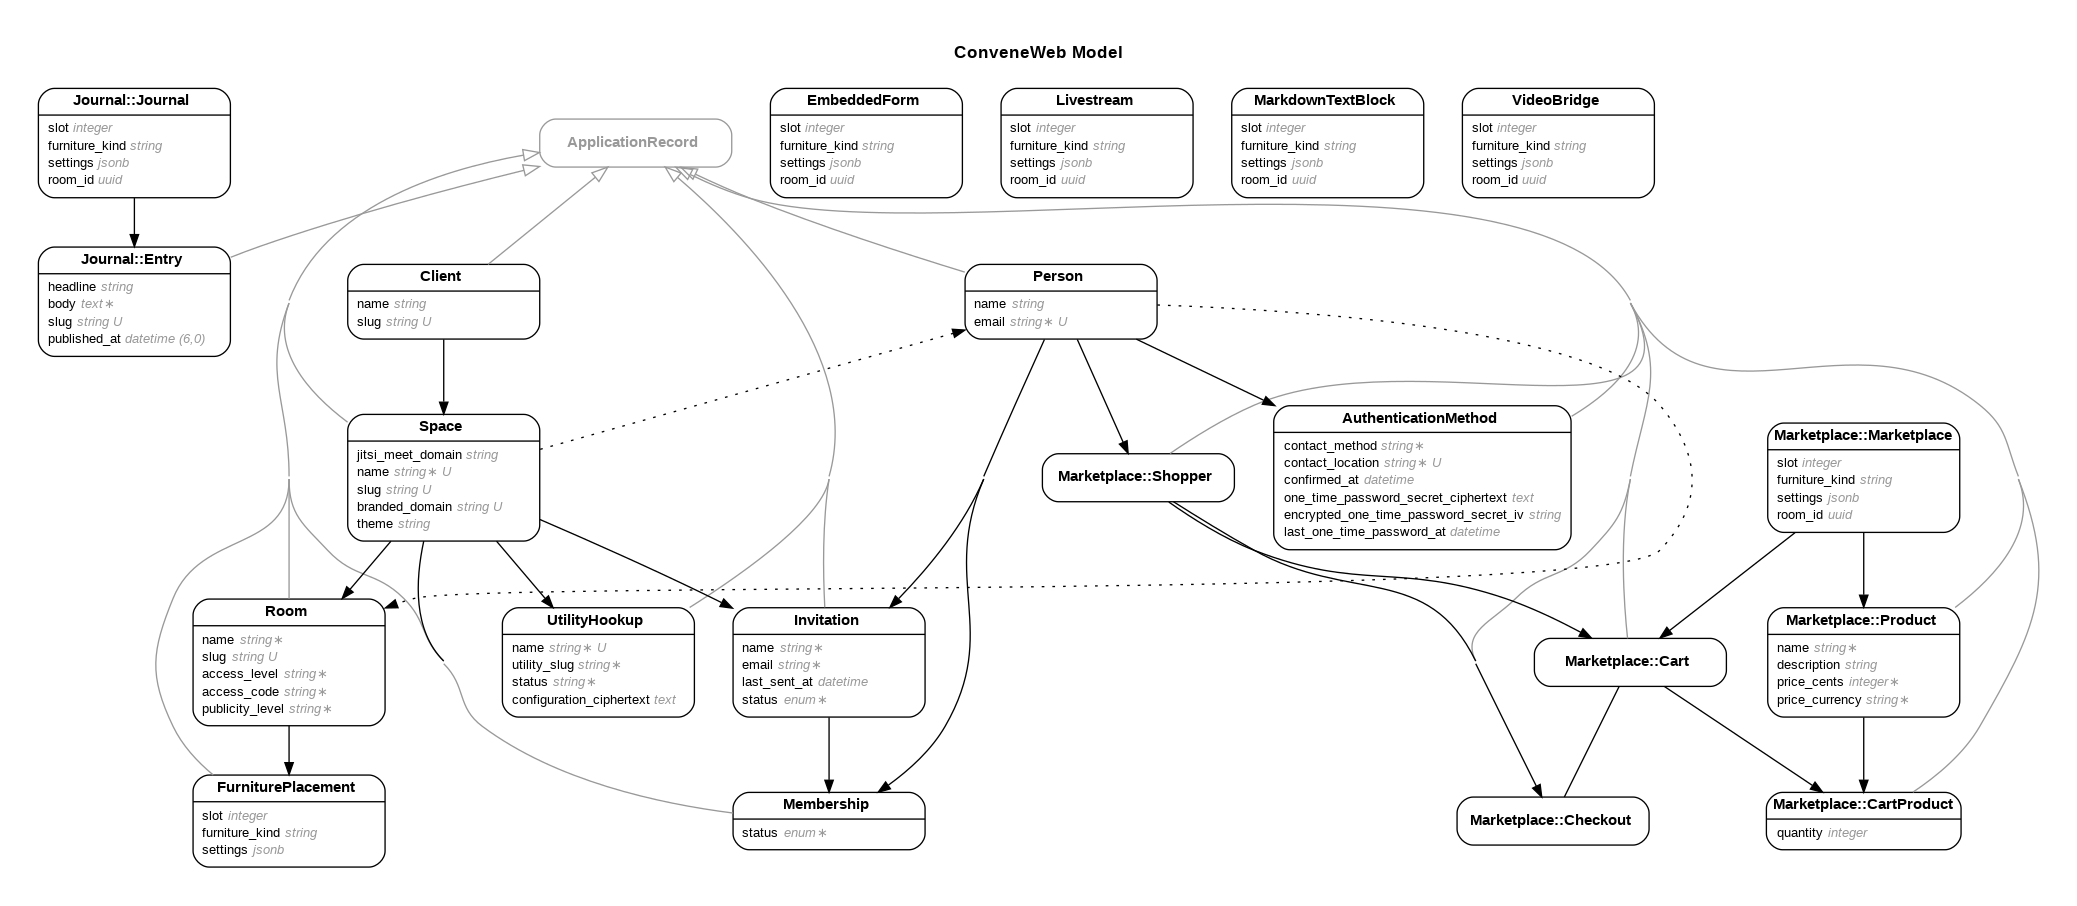
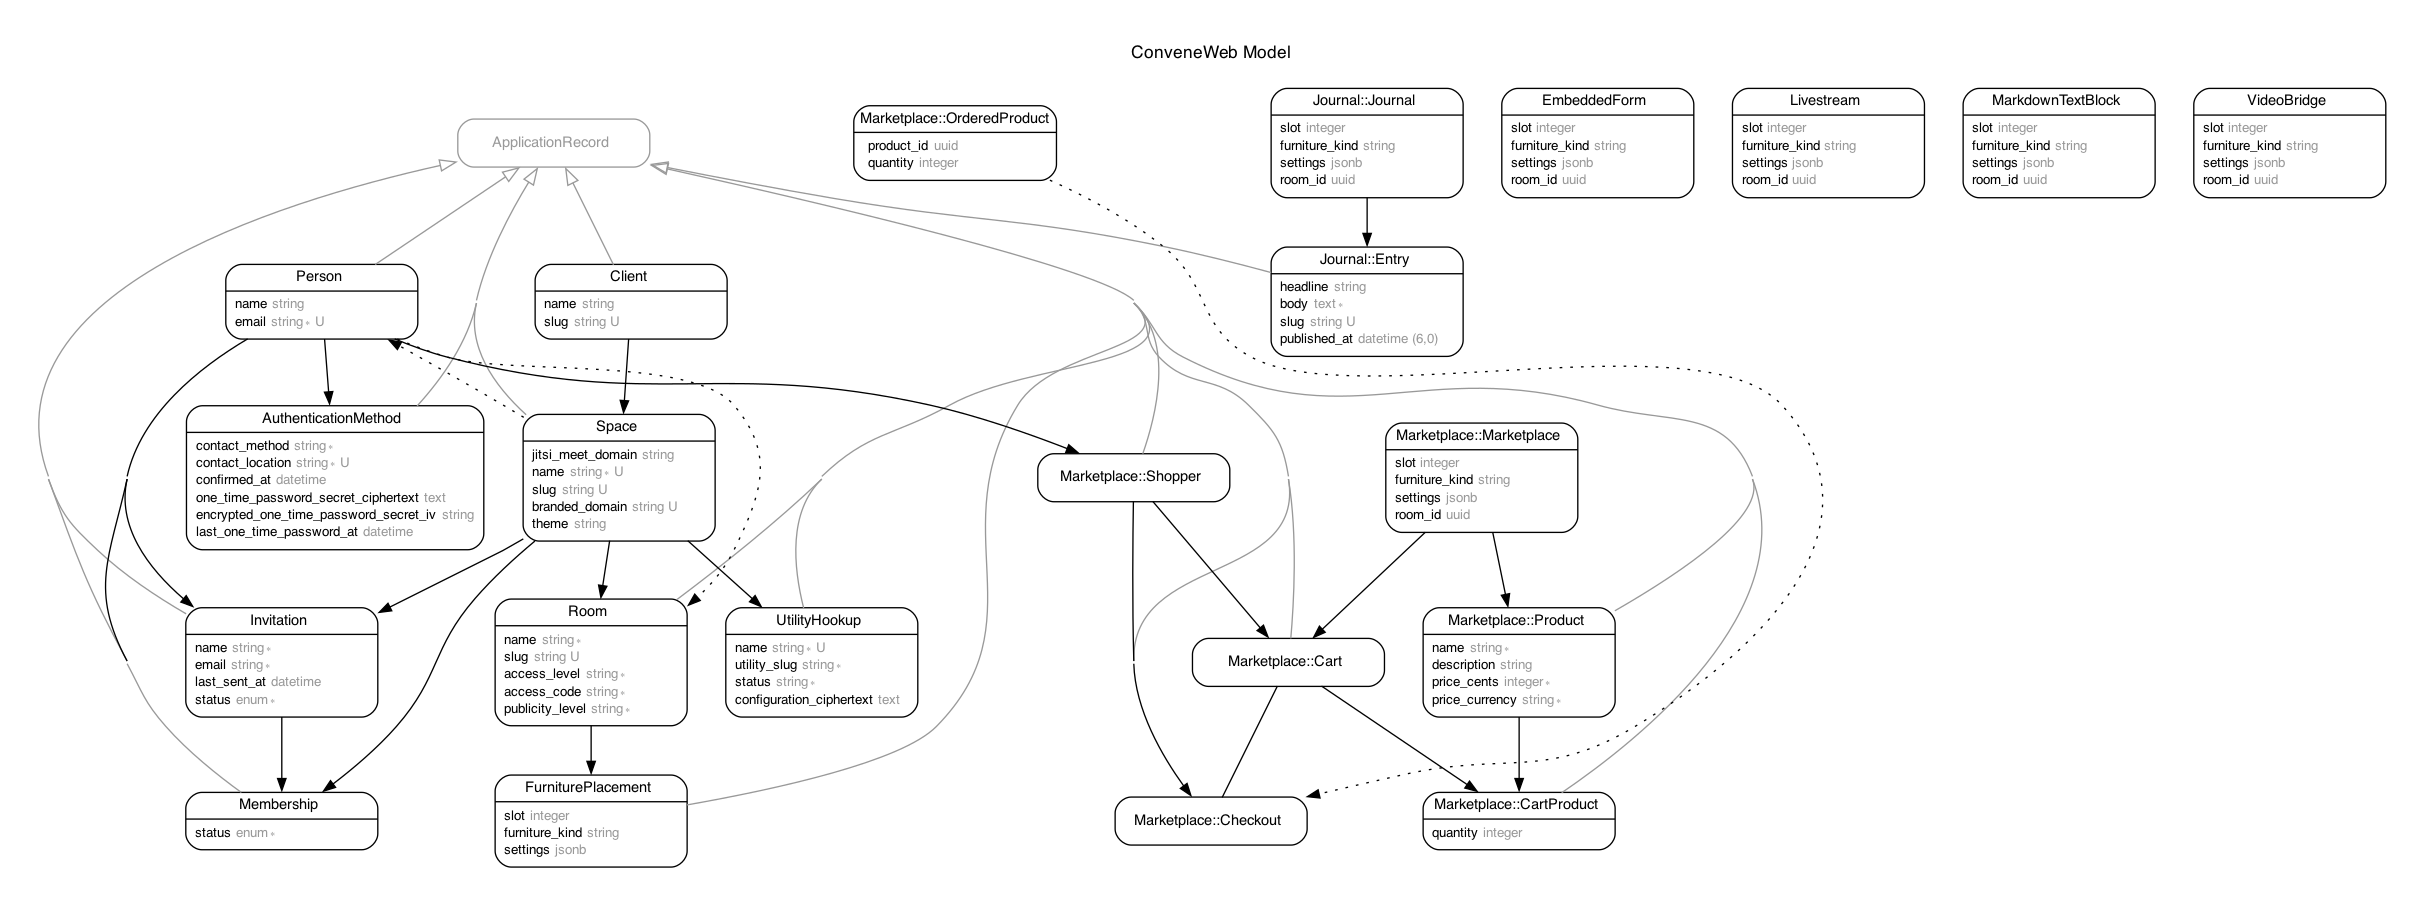
Marketplace: Vendor Accepts Payments (#1031)
* Marketplace: Start sketching out docs for how we Checkout

* Stripe: Install Stripe Gem

* Marketplace: Buyer checks-out with Stripe Checkout!

FUCK YEAAHHHHHHH

* Marketplace: Tidy up generation of Stripe session

* Marketplace; Turbo does not like the URL used for Stripe Checkout

For whatever reason, it is truncating the urls; and rather than fucking
around trying to figure out how to make turbo play nicely, just disable;
since we know we will need to redraw the entire DOM anyway, since we are
redirecting to a Stripe Checkout page.

* Marketplace: Buyer sees Checkout after Checkout

It does make me feel like we are using Checkout for too many things, and
maybe we want an Order class which is distinct from a Checkout but we
didn't want to jump through those hoops in this particual session.

* Freeze the Cart and Checkout after a successful payment, and clear out the
current cart.

* Update CheckoutPolicy to match spec expectations (#1044)

This PR updates the CheckoutPolicy implementation to satisfy the expectations in the spec. I do not know if this is precisely the behavior we want -- e.g. maybe we want a "marketplace admin" (space owner?) to be able to always see a Checkout -- but we can expand the behavior later.

* Handle the "failed to initiate checkout" case and add request specs.

* Add guards for the cases when we don't have a cart.

* Marketplace: `current_cart` is a lie, it's the shopper!

* Marketplace: Checking out works again!
[…]

diff --git a/spec/furniture/marketplace/checkouts_controller_request_spec.rb b/spec/furniture/marketplace/checkouts_controller_request_spec.rb
@@ -1,13 +1,53 @@
 require "rails_helper"
 
 RSpec.describe Marketplace::Checkout, type: :request do
-  let(:marketplace) { create(:marketplace) }
+  let(:marketplace) { create(:marketplace, stripe_api_key: "fake-stripe-key") }
   let(:space) { marketplace.space }
   let(:room) { marketplace.room }
 
+  describe "#show" do
+    let!(:cart) { create(:marketplace_cart, :with_products, marketplace: marketplace) }
+    let(:checkout) { create(:marketplace_checkout, cart: cart, shopper: cart.shopper)}
+    context "when a stripe_session_id is in the params" do
+      it "marks the cart as checked out" do
+        get polymorphic_path([space, room, marketplace, checkout], { stripe_session_id: "12345" })
+        expect(cart.reload).to be_checked_out
+        expect(checkout.reload).to be_paid
+      end
+    end
+  end
+
   describe "#create" do
-    it "Create Checkout from a Cart" do
-      # TODO: insert test
+    subject {
+      post polymorphic_path([space, room, marketplace, :checkouts])
+      response
+    }
+
+    let(:stripe_checkout_session) do
+      double(Stripe::Checkout::Session, url: "http://stripe.redirect")
+    end
+
+    before do
+      allow(Stripe::Checkout::Session).to receive(:create).and_return(stripe_checkout_session)
+      allow_any_instance_of(ApplicationController).to receive(:session).and_return({ guest_shopper_id: cart.shopper.id })
+    end
+
+    context "when a Guest checks out their Cart" do
+      let!(:cart) { create(:marketplace_cart, :with_products, marketplace: marketplace) }
+
+      it "creates a Checkout from a Cart" do
+        expect { subject }.to change(Marketplace::Checkout, :count).by(1)
+        expect(subject).to redirect_to(stripe_checkout_session.url)
+      end
+    end
+
+    context "when the Cart is empty" do
+      let!(:cart) { create(:marketplace_cart, marketplace: marketplace) }
+
+      it "doesn't create a Checkout and shows an error notice" do
+        expect { subject }.not_to change(Marketplace::Checkout, :count)
+        expect(flash["alert"]).to include("line items can't be blank")
+      end
     end
   end
 end

diff --git a/app/furniture/marketplace/checkouts_controller.rb b/app/furniture/marketplace/checkouts_controller.rb
@@ -1,23 +1,51 @@
 class Marketplace
   class CheckoutsController < FurnitureController
-    def new
+
+    def show
       authorize(checkout)
+      if params[:stripe_session_id].present?
+        checkout.update!(status: :paid, stripe_session_id: params[:stripe_session_id])
+        checkout.cart.update!(status: :checked_out)
+        flash[:notice] = t('.success')
+      end
+    end
+
+    def create
+      authorize(checkout)
+
+      if checkout.save
+        stripe_session = checkout.create_stripe_session(
+          success_url: "#{polymorphic_url(checkout.location)}?stripe_session_id={CHECKOUT_SESSION_ID}",
+          cancel_url: polymorphic_url(marketplace.location)
+        )
+        redirect_to stripe_session.url, status: :see_other, allow_other_host: true
+      else
+        redirect_to(
+          [marketplace.room.space, marketplace.room],
+          # TODO: make this a nicer, I18ed message
+          alert: flash[:alert] = checkout.errors.full_messages.join(" ")
+        )
+      end
     end
 
     helper_method def checkout
-      @checkout ||= cart.build_checkout(shopper: shopper)
+      @checkout ||= if params[:id]
+        Checkout.find(params[:id])
+      else
+        cart.checkout || cart.build_checkout(shopper: shopper)
+      end
     end
 
     helper_method def shopper
       @shopper ||= if current_person.is_a?(Guest)
-        Shopper.find_or_create_by(id: session[:current_cart] ||= SecureRandom.uuid)
+        Shopper.find_or_create_by(id: session[:guest_shopper_id] ||= SecureRandom.uuid)
       else
         Shopper.find_or_create_by(person: current_person)
       end
     end
 
     helper_method def cart
-      @cart ||= marketplace.carts.find_or_create_by(shopper: shopper)
+      @cart ||= marketplace.carts.find_or_create_by(shopper: shopper, status: :pre_checkout)
     end
 
     helper_method def marketplace

diff --git a/app/furniture/marketplace/checkout.rb b/app/furniture/marketplace/checkout.rb
@@ -5,11 +5,54 @@ class Marketplace
     self.location_parent = :marketplace
 
     belongs_to :cart, inverse_of: :checkout
+
+    has_many :ordered_products, through: :cart, source: :cart_products, class_name: "Marketplace::OrderedProduct"
     delegate :marketplace, to: :cart
     belongs_to :shopper, inverse_of: :checkouts
 
+
+    # It would be nice to validate instead the presence of :ordered_products, but my attempts at this raise:
+    #  ActiveRecord::HasManyThroughCantAssociateThroughHasOneOrManyReflection:
+    #   Cannot modify association 'Marketplace::Checkout#ordered_products' because the source reflection class 'CartProduct' is associated to 'Cart' via :has_many.
+    validates :stripe_line_items, presence: true
+
+    enum status: {
+      pre_checkout: "pre_checkout",
+      paid: "paid",
+    }
+
     def self.model_name
       @_model_name ||= ActiveModel::Name.new(self, ::Marketplace)
+    end
+
+
+    def create_stripe_session(success_url: , cancel_url: )
+      Stripe::Checkout::Session.create({
+        line_items: stripe_line_items,
+        mode: "payment",
+        success_url: success_url,
+        cancel_url: cancel_url
+      }, {
+        api_key: marketplace.stripe_api_key
+      })
+    end
+
+    private
+
+    def stripe_line_items
+      return [] unless cart.present?
+
+      cart.cart_products.map do |cart_product|
+        {
+          price_data: {
+            currency: "USD",
+            unit_amount: cart_product.product.price_cents,
+            product_data: {name: cart_product.product.name}
+          },
+          quantity: cart_product.quantity,
+          adjustable_quantity: { enabled: true }
+        }
+      end
     end
   end
 end

diff --git a/db/schema.rb b/db/schema.rb
@@ -10,7 +10,7 @@
 #
 # It's strongly recommended that you check this file into your version control system.
 
-ActiveRecord::Schema[7.0].define(version: 2022_12_27_185339) do
+ActiveRecord::Schema[7.0].define(version: 2023_01_12_024425) do
   # These are extensions that must be enabled in order to support this database
   enable_extension "pgcrypto"
   enable_extension "plpgsql"
@@ -139,6 +139,7 @@ ActiveRecord::Schema[7.0].define(version: 2022_12_27_185339) do
     t.datetime "created_at", null: false
     t.datetime "updated_at", null: false
     t.uuid "shopper_id"
+    t.string "status", default: "pre_checkout", null: false
     t.index ["marketplace_id"], name: "index_marketplace_carts_on_marketplace_id"
     t.index ["shopper_id"], name: "index_marketplace_carts_on_shopper_id"
   end
@@ -148,6 +149,8 @@ ActiveRecord::Schema[7.0].define(version: 2022_12_27_185339) do
     t.uuid "shopper_id"
     t.datetime "created_at", null: false
     t.datetime "updated_at", null: false
+    t.string "status", default: "pre_checkout", null: false
+    t.string "stripe_session_id"
     t.index ["cart_id"], name: "index_marketplace_checkouts_on_cart_id"
     t.index ["shopper_id"], name: "index_marketplace_checkouts_on_shopper_id"
   end

diff --git a/spec/furniture/marketplace/checkout_policy_spec.rb b/spec/furniture/marketplace/checkout_policy_spec.rb
@@ -23,4 +23,14 @@ RSpec.describe Marketplace::CheckoutPolicy, type: :policy do
     it { is_expected.to permit(guest, guest_checkout) }
     it { is_expected.not_to permit(member, guest_checkout) }
   end
+
+  permissions :show? do
+    it { is_expected.to permit(member, member_checkout) }
+    it { is_expected.not_to permit(non_member, member_checkout) }
+    it { is_expected.not_to permit(guest, member_checkout) }
+    it { is_expected.to permit(non_member, non_member_checkout) }
+    it { is_expected.not_to permit(member, non_member_checkout) }
+    it { is_expected.to permit(guest, guest_checkout) }
+    it { is_expected.not_to permit(member, guest_checkout) }
+  end
 end

diff --git a/app/furniture/marketplace/cart_product.rb b/app/furniture/marketplace/cart_product.rb
@@ -5,13 +5,25 @@ class Marketplace
     self.table_name = "marketplace_cart_products"
 
     belongs_to :cart, inverse_of: :cart_products
+
     belongs_to :product, inverse_of: :cart_products
+    delegate :name, :description, :price, :price_cents, to: :product
+
     validates_uniqueness_of :product, scope: :cart_id
+    validate :editable_cart
 
     attribute :quantity, :integer, default: 0
 
     def self.model_name
       @_model_name ||= ActiveModel::Name.new(self, ::Marketplace)
+    end
+
+    private
+
+    def editable_cart
+      return unless cart&.checked_out?
+
+      errors.add(:base, "Can't edit a checked-out cart!")
     end
   end
 end

diff --git a/spec/furniture/marketplace/cart_product_spec.rb b/spec/furniture/marketplace/cart_product_spec.rb
@@ -7,4 +7,14 @@ RSpec.describe Marketplace::CartProduct, type: :model do
 
   it { is_expected.to belong_to(:product).inverse_of(:cart_products) }
   it { is_expected.to validate_uniqueness_of(:product).scoped_to(:cart_id) }
+
+  describe "#quantity" do
+    let(:cart) { create(:marketplace_cart, :with_products) }
+
+    it "can't be edited for a checked_out cart" do
+      cart.cart_products.first.update!(quantity: 42)
+      cart.checked_out!
+      expect { cart.cart_products.first.update!(quantity: 17) }.to raise_error(ActiveRecord::RecordInvalid)
+    end
+  end
 end

diff --git a/spec/factories/furniture/marketplace.rb b/spec/factories/furniture/marketplace.rb
@@ -18,9 +18,14 @@ FactoryBot.define do
   factory :marketplace_cart, class: "Marketplace::Cart" do
     marketplace
     association(:shopper, factory: :marketplace_shopper)
+
+    trait :with_products do
+      after(:build) do |cart, _evaluator|
+        build(:marketplace_cart_product, cart: cart)
+      end
+    end
   end
 
   factory :marketplace_shopper, class: "Marketplace::Shopper" do
   end
-  
 end

diff --git a/spec/furniture/marketplace/checkout_spec.rb b/spec/furniture/marketplace/checkout_spec.rb
@@ -3,4 +3,5 @@ require "rails_helper"
 RSpec.describe Marketplace::Checkout, type: :model do
   it { is_expected.to belong_to(:cart).inverse_of(:checkout) }
   it { is_expected.to belong_to(:shopper).inverse_of(:checkouts) }
+  it { is_expected.to have_many(:ordered_products).through(:cart).source(:cart_products).class_name("Marketplace::OrderedProduct") }
 end

diff --git a/app/furniture/marketplace/cart.rb b/app/furniture/marketplace/cart.rb
@@ -13,6 +13,11 @@ class Marketplace
     has_many :products, through: :cart_products, inverse_of: :carts
     has_one :checkout, inverse_of: :cart
 
+    enum status: {
+      pre_checkout: "pre_checkout",
+      checked_out: "check_out"
+    }
+
     def self.model_name
       @_model_name ||= ActiveModel::Name.new(self, ::Marketplace)
     end

diff --git a/app/furniture/marketplace/marketplace.rb b/app/furniture/marketplace/marketplace.rb
@@ -7,6 +7,7 @@ class Marketplace
     has_many :products, inverse_of: :marketplace, dependent: :destroy
     has_many :carts, inverse_of: :marketplace, dependent: :destroy
 
+    # The Secret Stripe API key belonging to the owner of the Marketplace
     def stripe_api_key=(key)
       settings["stripe_api_key"] = key
     end

diff --git a/db/migrate/20230112022651_add_checkout_metadata.rb b/db/migrate/20230112022651_add_checkout_metadata.rb
@@ -1,0 +1,6 @@
+class AddCheckoutMetadata < ActiveRecord::Migration[7.0]
+  def change
+    add_column :marketplace_checkouts, :status, :string, default: "pre_checkout", null: false
+    add_column :marketplace_checkouts, :stripe_session_id, :string
+  end
+end
